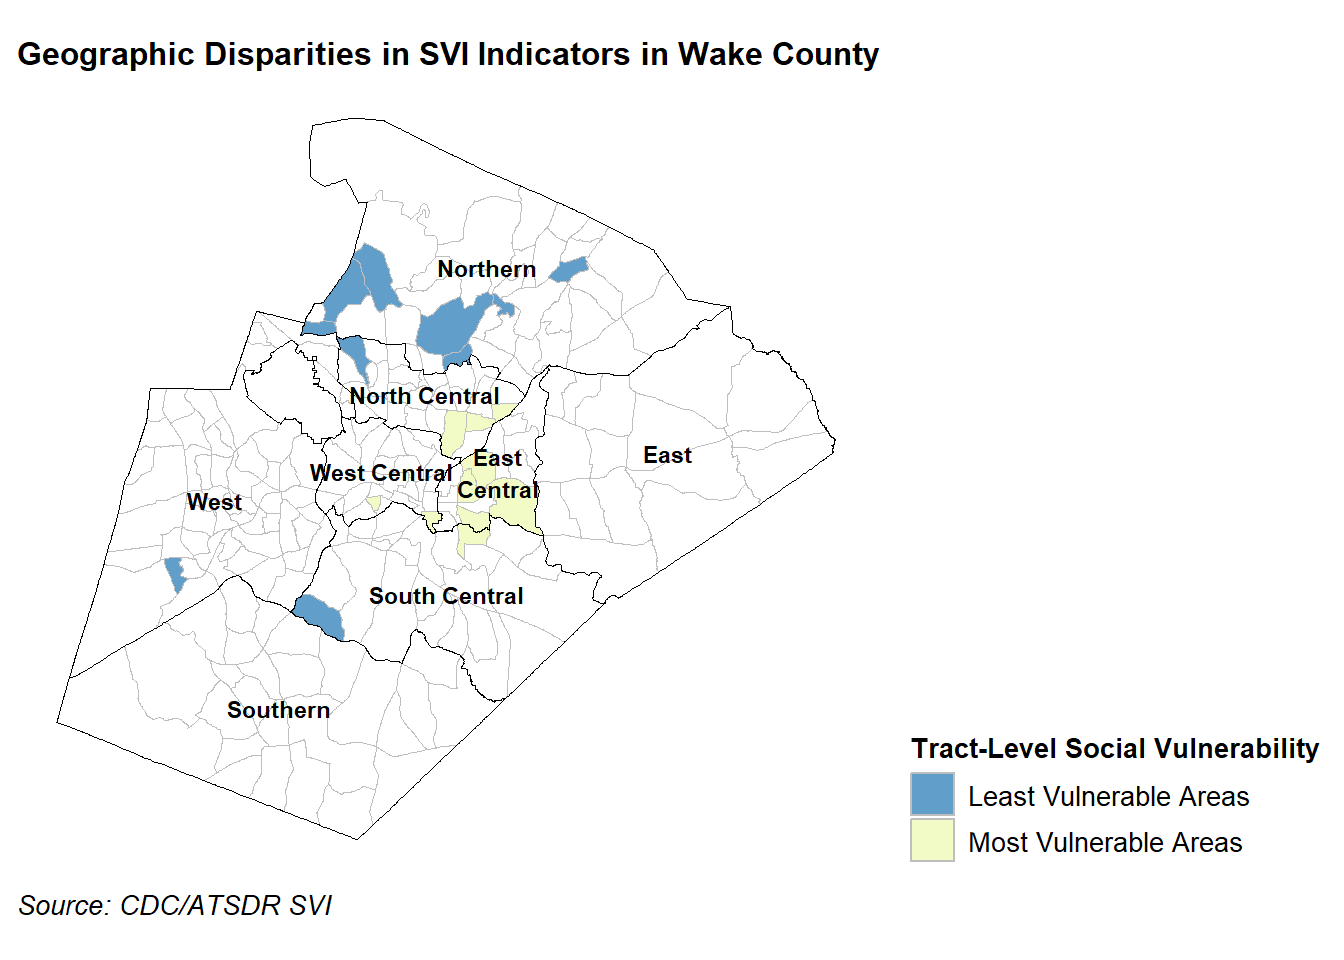
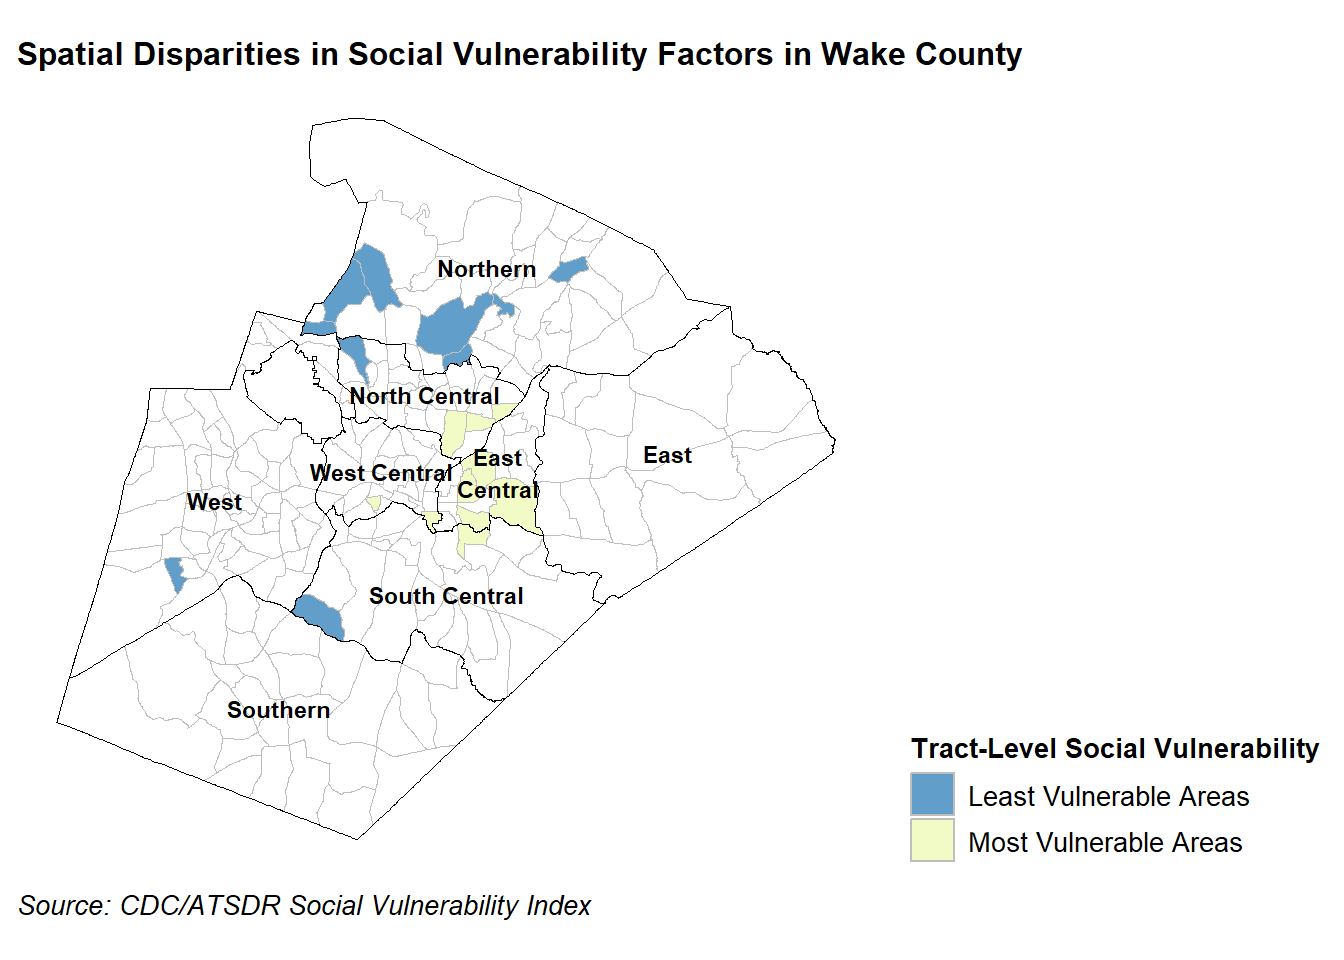
Updating report content to reflect presentation content.

Changed region(s): [[0.0, 0.0312, 0.75, 0.0938], [0.2188, 0.9375, 0.4375, 0.9688]]

diff --git a/docs/wake-svi-report.html b/docs/wake-svi-report.html
@@ -124,11 +124,11 @@ pre > code.sourceCode > span > a:first-child::before { text-decoration: underlin
   <li><a href="#analyzing-social-vulnerability-among-tracts" id="toc-analyzing-social-vulnerability-among-tracts" class="nav-link" data-scroll-target="#analyzing-social-vulnerability-among-tracts">Analyzing Social Vulnerability Among Tracts</a></li>
   <li><a href="#visualizing-the-most-and-least-socially-vulnerable-communities-in-wake-county" id="toc-visualizing-the-most-and-least-socially-vulnerable-communities-in-wake-county" class="nav-link" data-scroll-target="#visualizing-the-most-and-least-socially-vulnerable-communities-in-wake-county">Visualizing the Most and Least Socially Vulnerable Communities in Wake County</a>
   <ul class="collapse">
-  <li><a href="#key-insight-1" id="toc-key-insight-1" class="nav-link" data-scroll-target="#key-insight-1">Key Insight #1</a></li>
+  <li><a href="#key-insight" id="toc-key-insight" class="nav-link" data-scroll-target="#key-insight">Key Insight</a></li>
   </ul></li>
-  <li><a href="#comparing-raleighs-opportunity-zones-with-most-socially-vulnerable-communities" id="toc-comparing-raleighs-opportunity-zones-with-most-socially-vulnerable-communities" class="nav-link" data-scroll-target="#comparing-raleighs-opportunity-zones-with-most-socially-vulnerable-communities">Comparing Raleigh’s Opportunity Zones with Most Socially Vulnerable Communities</a>
+  <li><a href="#investigating-alignment-between-opportunity-zones-and-socially-vulnerable-communities" id="toc-investigating-alignment-between-opportunity-zones-and-socially-vulnerable-communities" class="nav-link" data-scroll-target="#investigating-alignment-between-opportunity-zones-and-socially-vulnerable-communities">Investigating Alignment Between Opportunity Zones and Socially Vulnerable Communities</a>
   <ul class="collapse">
-  <li><a href="#key-insight-2" id="toc-key-insight-2" class="nav-link" data-scroll-target="#key-insight-2">Key Insight #2</a></li>
+  <li><a href="#key-insight-1" id="toc-key-insight-1" class="nav-link" data-scroll-target="#key-insight-1">Key Insight</a></li>
   </ul></li>
   </ul>
 </nav>
@@ -271,12 +271,13 @@ pre > code.sourceCode > span > a:first-child::before { text-decoration: underlin
 </section>
 <section id="analyzing-social-vulnerability-among-tracts" class="level1">
 <h1>Analyzing Social Vulnerability Among Tracts</h1>
-<p>To visualize geographic social vulnerability disparities among communities in Wake County, I calculated the 75th and 25th percentiles for each of the percentage indicators. I defined the <u>most</u> socially vulnerable areas as tracts with values at or above the 75th percentile across each of the indicators: rates of no high school diploma among individuals 25 and over (&gt;= <em>5.6%</em>), individuals below 150% FPL (&gt;= <em>18.6%</em>), overcrowded housing units (&gt;= <em>3%</em>), households without a vehicle (&gt;= <em>6%</em>), and BIPOC residents (&gt;= <em>52.6%</em>). Similarly, I defined the <u>least</u> socially vulnerable areas as tracts with values at or below the 25th percentile across each of the indicators: rates of no high school diploma among individuals 25 and over (&lt;= <em>1.2</em>%), individuals below 150% FPL (&gt;= <em>6.5%</em>), overcrowded housing units (<em>0%</em>), households without a vehicle (&lt;= <em>0.9%</em>), and BIPOC residents (&lt;= <em>23.9%</em>).</p>
+<p>I wanted to identify the “most” and “least” socially vulnerable communities to visualize geographic disparities in social vulnerability factors across Wake County, so <strong>I calculated the 75th and 25th percentiles</strong> for each of the following indicators: rates of no high school diploma (age 25+), individuals below 150% FPL, overcrowded housing, households without a vehicle, and BIPOC residents.</p>
+<p>I defined the <strong>most socially vulnerable areas</strong> as tracts in the <strong>top 25%</strong> across all 5 of the indicators: rates of no high school diploma among individuals 25 and over (&gt;= <em>5.6%</em>), individuals below 150% FPL (&gt;= <em>18.6%</em>), overcrowded housing units (&gt;= <em>3%</em>), households without a vehicle (&gt;= <em>6%</em>), and BIPOC residents (&gt;= <em>52.6%</em>). Similarly, I defined the <strong>least socially vulnerable areas</strong> as tracts in the <strong>bottom 25%</strong> across all 5 indicators: rates of no high school diploma among individuals 25 and over (&lt;= <em>1.2</em>%), individuals below 150% FPL (&gt;= <em>6.5%</em>), overcrowded housing units (<em>0%</em>), households without a vehicle (&lt;= <em>0.9%</em>), and BIPOC residents (&lt;= <em>23.9%</em>).</p>
 <div class="cell">
 <details class="code-fold">
 <summary>Code</summary>
 <div class="sourceCode cell-code" id="cb5"><pre class="sourceCode r code-with-copy"><code class="sourceCode r"><span id="cb5-1"><a href="#cb5-1" aria-hidden="true" tabindex="-1"></a><span class="co"># Create map caption</span></span>
-<span id="cb5-2"><a href="#cb5-2" aria-hidden="true" tabindex="-1"></a>caption <span class="ot">&lt;-</span> <span class="st">"Source: CDC/ATSDR SVI"</span></span>
+<span id="cb5-2"><a href="#cb5-2" aria-hidden="true" tabindex="-1"></a>caption <span class="ot">&lt;-</span> <span class="st">"Source: CDC/ATSDR Social Vulnerability Index"</span></span>
 <span id="cb5-3"><a href="#cb5-3" aria-hidden="true" tabindex="-1"></a></span>
 <span id="cb5-4"><a href="#cb5-4" aria-hidden="true" tabindex="-1"></a><span class="co"># Define the columns of interest</span></span>
 <span id="cb5-5"><a href="#cb5-5" aria-hidden="true" tabindex="-1"></a>columns_of_interest <span class="ot">&lt;-</span> <span class="fu">c</span>(</span>
@@ -329,9 +330,7 @@ pre > code.sourceCode > span > a:first-child::before { text-decoration: underlin
 </section>
 <section id="visualizing-the-most-and-least-socially-vulnerable-communities-in-wake-county" class="level1">
 <h1>Visualizing the Most and Least Socially Vulnerable Communities in Wake County</h1>
-<section id="key-insight-1" class="level2">
-<h2 class="anchored" data-anchor-id="key-insight-1">Key Insight #1</h2>
-<p><strong>In the map below, yellow areas represent the most socially vulnerable communities</strong>, while <strong>blue areas represent the least socially vulnerable communities</strong>. Wake County is divided into 8 service zones. This map shows that the most socially vulnerable communities are clustered together, concentrated in the East Central service zone and nearby tracts on the borders of the North Central, South Central, and West Central service zones. On the other hand, the least socially vulnerable communities are more distinctly spread across the county in the Northern, North Central, West, and South Central service zones. We can use this information to help inform which neighborhoods county-level investments should go to.</p>
+<p>The <strong>most socially vulnerable areas</strong> are census tracts in the <strong>top 25%</strong> for rates of no high school diploma (age 25+), individuals below 150% FPL, overcrowded housing, households without a vehicle, and BIPOC residents. The <strong>least socially vulnerable areas</strong> are in the <strong>bottom 25%</strong> for these indicators.</p>
 <div class="cell">
 <details class="code-fold">
 <summary>Code</summary>
@@ -366,7 +365,7 @@ pre > code.sourceCode > span > a:first-child::before { text-decoration: underlin
 <span id="cb6-29"><a href="#cb6-29" aria-hidden="true" tabindex="-1"></a>map_with_labels <span class="ot">&lt;-</span> map_with_zones <span class="sc">+</span></span>
 <span id="cb6-30"><a href="#cb6-30" aria-hidden="true" tabindex="-1"></a>  <span class="fu">geom_sf_text</span>(<span class="at">data =</span> zone_centroids, <span class="fu">aes</span>(<span class="at">label =</span> zone_name), <span class="at">size =</span> <span class="dv">3</span>, <span class="at">color =</span> <span class="st">"black"</span>, <span class="at">fontface =</span> <span class="st">"bold"</span>) <span class="sc">+</span></span>
 <span id="cb6-31"><a href="#cb6-31" aria-hidden="true" tabindex="-1"></a>  <span class="fu">labs</span>(</span>
-<span id="cb6-32"><a href="#cb6-32" aria-hidden="true" tabindex="-1"></a>    <span class="at">title =</span> <span class="st">"Geographic Disparities in SVI Indicators in Wake County"</span>,</span>
+<span id="cb6-32"><a href="#cb6-32" aria-hidden="true" tabindex="-1"></a>    <span class="at">title =</span> <span class="st">"Spatial Disparities in Social Vulnerability Factors in Wake County"</span>,</span>
 <span id="cb6-33"><a href="#cb6-33" aria-hidden="true" tabindex="-1"></a>    <span class="at">caption =</span> caption) <span class="sc">+</span></span>
 <span id="cb6-34"><a href="#cb6-34" aria-hidden="true" tabindex="-1"></a>  <span class="fu">theme</span>(</span>
 <span id="cb6-35"><a href="#cb6-35" aria-hidden="true" tabindex="-1"></a>    <span class="at">legend.position =</span> <span class="st">"right"</span>,</span>
@@ -386,14 +385,15 @@ pre > code.sourceCode > span > a:first-child::before { text-decoration: underlin
 </div>
 </div>
 </div>
+<section id="key-insight" class="level2">
+<h2 class="anchored" data-anchor-id="key-insight">Key Insight</h2>
+<p>Wake County is divided into 8 service zones. This map shows that <strong>the most socially vulnerable communities are clustered together</strong>, concentrated in the East Central service zone and nearby tracts on the borders of the North Central, South Central, and West Central service zones. On the other hand, <strong>the least socially vulnerable communities are more distinctly spread across the county</strong> in the Northern, North Central, West, and South Central service zones. We can use this information to help inform which tracts and service zones county-level investments should go to.</p>
 </section>
 </section>
-<section id="comparing-raleighs-opportunity-zones-with-most-socially-vulnerable-communities" class="level1">
-<h1>Comparing Raleigh’s Opportunity Zones with Most Socially Vulnerable Communities</h1>
-<p>Opportunity Zones are a national-level incentive program to encourage public and private investment and economic growth in communities across the United States that have experienced historical disinvestment. The Opportunity Zones Program currently defines eligible tracts as areas where the poverty rate is 20% or higher and/or family income is less than 80% of the area’s median income. In Raleigh, there are 10 census tracts designated as Opportunity Zones.</p>
-<section id="key-insight-2" class="level2">
-<h2 class="anchored" data-anchor-id="key-insight-2">Key Insight #2</h2>
-<p>Of the 10 tracts identified as the most socially vulnerable areas, 4 are designated Opportunity Zones by the city of Raleigh. This overlap suggests the initiative is targeting areas with high social vulnerability, but could do better. Expanding Opportunity Zone tract eligibility beyond poverty and income measures could lead to improved social vulnerability among even more marginalized communities. Policymakers should consider additional investment incentive programs for communities with lower rates of educational attainment and higher rates of severe housing problems, for example.</p>
+<section id="investigating-alignment-between-opportunity-zones-and-socially-vulnerable-communities" class="level1">
+<h1>Investigating Alignment Between Opportunity Zones and Socially Vulnerable Communities</h1>
+<p>Established by Congress in 2017 through the Tax Cuts &amp; Jobs Act, <a href="https://raleigh-wake.org/business-advantages/equitable-economic-development/opportunity-zones">Opportunity Zones</a> are a nationwide incentive program to encourage long-term investment and economic growth in communities that have experienced historical disinvestment. The Opportunity Zones Program currently defines eligible census tracts as areas where the poverty rate is 20% or higher and/or family income is less than 80% of the area’s median income. In Raleigh, there are <a href="https://ral.maps.arcgis.com/apps/MapJournal/index.html?appid=497bd2e832a1451f8ad2514bcba67ad8">10 census tracts</a> designated as Opportunity Zones.</p>
+<p>The shaded areas in this map are the <strong>most socially vulnerable areas</strong>, or census tracts in the <strong>top 25%</strong> for rates of no high school diploma (age 25+), individuals below 150% FPL, overcrowded housing, households without a vehicle, and BIPOC residents. Among these tracts, green areas are designated Opportunity Zones while gray areas are not.</p>
 <div class="cell">
 <details class="code-fold">
 <summary>Code</summary>
@@ -436,8 +436,8 @@ pre > code.sourceCode > span > a:first-child::before { text-decoration: underlin
 <span id="cb7-37"><a href="#cb7-37" aria-hidden="true" tabindex="-1"></a>map_with_labels <span class="ot">&lt;-</span> map_with_zones <span class="sc">+</span></span>
 <span id="cb7-38"><a href="#cb7-38" aria-hidden="true" tabindex="-1"></a>  <span class="fu">geom_sf_text</span>(<span class="at">data =</span> zone_centroids, <span class="fu">aes</span>(<span class="at">label =</span> zone_name), <span class="at">size =</span> <span class="dv">3</span>, <span class="at">color =</span> <span class="st">"black"</span>, <span class="at">fontface =</span> <span class="st">"bold"</span>) <span class="sc">+</span></span>
 <span id="cb7-39"><a href="#cb7-39" aria-hidden="true" tabindex="-1"></a>  <span class="fu">labs</span>(</span>
-<span id="cb7-40"><a href="#cb7-40" aria-hidden="true" tabindex="-1"></a>    <span class="at">title =</span> <span class="st">"Opportunity Zone Status among Most Socially Vulnerable Areas in Wake County"</span>,</span>
-<span id="cb7-41"><a href="#cb7-41" aria-hidden="true" tabindex="-1"></a>    <span class="at">caption =</span> caption) <span class="sc">+</span></span>
+<span id="cb7-40"><a href="#cb7-40" aria-hidden="true" tabindex="-1"></a>    <span class="at">title =</span> <span class="st">"Opportunity Zones Among Top Socially Vulnerable Areas in Wake County"</span>,</span>
+<span id="cb7-41"><a href="#cb7-41" aria-hidden="true" tabindex="-1"></a>    <span class="at">caption =</span> <span class="st">"CDC/ATSDR Social Vulnerability Index, City of Raleigh Opportunity Zones"</span>) <span class="sc">+</span></span>
 <span id="cb7-42"><a href="#cb7-42" aria-hidden="true" tabindex="-1"></a>  <span class="fu">theme</span>(</span>
 <span id="cb7-43"><a href="#cb7-43" aria-hidden="true" tabindex="-1"></a>    <span class="at">legend.position =</span> <span class="st">"right"</span>,</span>
 <span id="cb7-44"><a href="#cb7-44" aria-hidden="true" tabindex="-1"></a>    <span class="at">legend.direction =</span> <span class="st">"vertical"</span>,</span>
@@ -456,6 +456,9 @@ pre > code.sourceCode > span > a:first-child::before { text-decoration: underlin
 </div>
 </div>
 </div>
+<section id="key-insight-1" class="level2">
+<h2 class="anchored" data-anchor-id="key-insight-1">Key Insight</h2>
+<p>Of the 10 tracts identified as the most socially vulnerable areas, <strong>4</strong> are designated Opportunity Zones by the city of Raleigh. This overlap suggests the initiative is targeting areas with high social vulnerability, but could do better. <strong>Expanding Opportunity Zone tract eligibility beyond poverty and income measures could lead to improved social vulnerability among communities that have been historically marginalized.</strong> Policymakers should consider additional investment incentive programs for communities with lower rates of educational attainment and higher rates of severe housing problems, for example.</p>
 
 
 </section>
